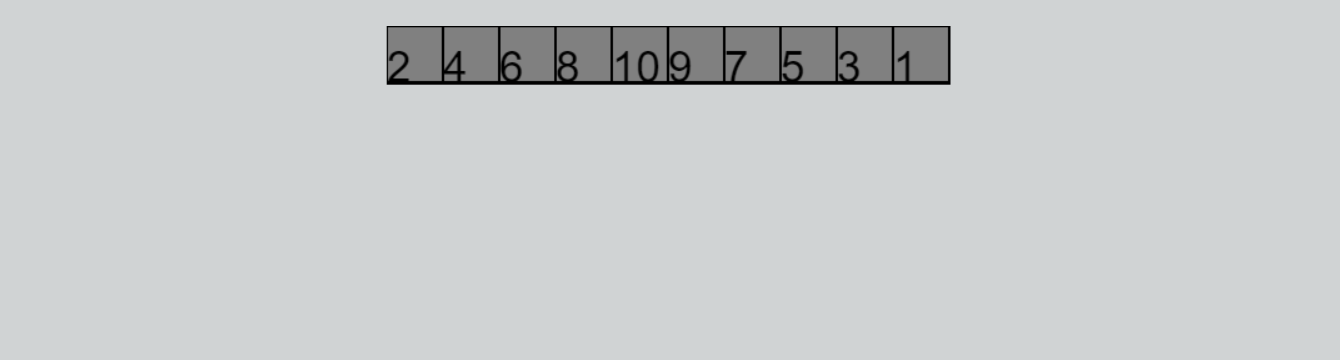
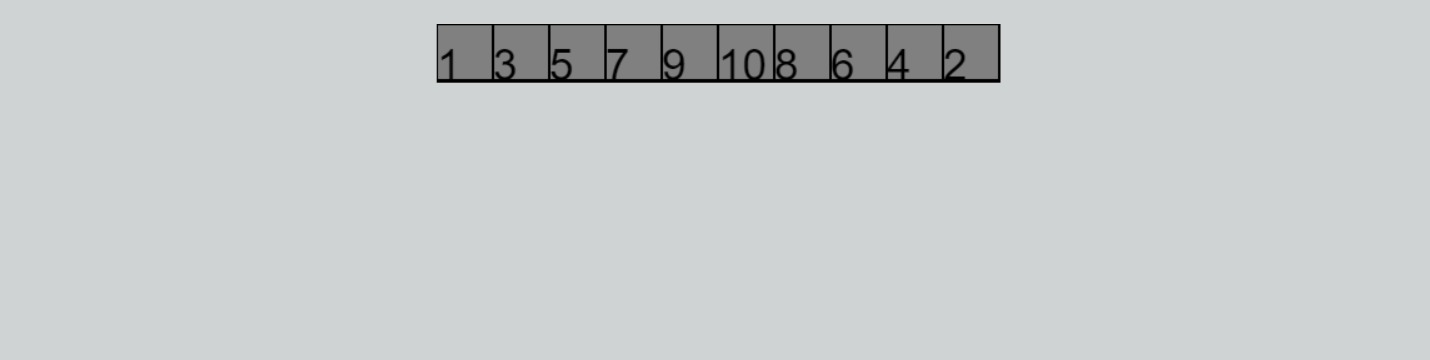
Updated pictures for library and added a description for all library buttons in Sequential WNN

Changed region(s): [[0.2754, 0.0611, 0.7343, 0.2444]]

diff --git a/src/wolframSQ.html b/src/wolframSQ.html
@@ -157,51 +157,56 @@
         <h2> Algorithm Configuration Library </h2>
         <div class="library_box"> 
           <h3> Random </h3>
+          <p> Cells are ordered in a numerically random configuration. </p>
           <div class="center_img">
             <button id="random" class="library_img"> </button>
           </div>
         </div>
         <div class="library_box"> 
           <h3> Left to Right </h3>
+          <p> Cells are ordered in a chronological sequence beginning from the leftmost cell (left/start lattice edge) and progressing towards the rightmost cell (right/end lattice edge). This is the default sequential ordering. </p>
           <div class="center_img">
             <button id="left2right" class="library_img"> </button>
           </div>
         </div>
         <div class="library_box"> 
           <h3> Right to Left </h3>
+          <p> Cells are ordered in a chronological sequence beginning from the rightmost cell (right/end lattice edge) and progressing towards the leftmost cell (left/start lattice edge). </p>
           <div class="center_img">
             <button id="right2left" class="library_img"> </button>
           </div>
         </div>
         <div class="library_box"> 
           <h3> Center Outward </h3>
+          <p> Cells are ordered in a alternating chronological structure beginning at the lattice center and progressing towards the edges. For even lattice sizes, the first cell is the left center cell in the lattice, the second cell is the right center cell, and this alternating sequence continues outward. </p>
           <div class="center_img">
             <button id="centerOutward" class="library_img"> </button>
           </div>
         </div>
         <div class="library_box"> 
           <h3> Edges Inward </h3>
+          <p> Cells are ordered in a alternating chronological structure beginning at the lattice edges and progressing towards the center. The first cell is the leftmost cell in the lattice, the second cell is the rightmost cell, and this alternating sequence continues inward. </p>
           <div class="center_img">
             <button id="edgesInward" class="library_img"> </button>
           </div>
         </div>
         <div class="library_box"> 
           <h3> Center Outward - Reversed </h3>
-          <p> TBD... </p>
+          <p> Cells are ordered in a center outward structure where for even lattice sizes, the first cell is the right center cell, the second cell is the left center cell, and this alternating sequence continues outward. </p>
           <div class="center_img">
             <button id="centerOutwardR" class="library_img"> </button>
           </div>
         </div>
         <div class="library_box"> 
           <h3> Edges Inward - Reversed </h3>
-          <p> TBD... </p>
+          <p> Cells are ordered in a edges inward structure where the first cell is the rightmost cell in the lattice, the second cell is the leftmost cell, and this alternating sequence continues inward. </p>
           <div class="center_img">
             <button id="edgesInwardR" class="library_img"> </button>
           </div>
         </div>
         <div class="library_box"> 
           <h3> N-Skip </h3>
-          <p> TBD... </p>
+          <p> Cells are ordered in a modular pattern based on an interval of N. This creates a weaving sequence, where every Nth cell is chronologically ordered, forming a repeated pattern. Enter an N-value below to set the modularity for the weaving sequence. Invalid inputs will default to N = 2. N is restricted to the following range: 2 <= N <= Lattice Size. </p>
           <div class="center_img">
             <button id="nSkip" class="library_img"> </button>
           </div>

diff --git a/src/js/wolframSQ/UIFunctionality.js b/src/js/wolframSQ/UIFunctionality.js
@@ -331,6 +331,11 @@ edgesIn.addEventListener("click", function() {
 	for (let i = 0; i < mockLattice.length; i++) {
 		mockLattice[i] = (mockLattice.length - 1) - mockLattice[i];
 	}
+	for (let i = 0; i < mockLattice.length / 2; i++) {
+		let temp = mockLattice[i]
+		mockLattice[i] = mockLattice[(mockLattice.length - 1) - i];
+		mockLattice[(mockLattice.length - 1) - i] = temp;
+	}
 	let neoLatticeArray = latticeArray;
 	for (let i = 0 ; i < latticeArray[0].length; i++) {
 		neoLatticeArray[0][i].flipColor();
@@ -342,9 +347,6 @@ edgesIn.addEventListener("click", function() {
 		tempOrder[mockLattice[i]] = i;
 	}
 	libraryWindow.style.display = "none";
-	console.log(tempOrder)
-	makeLog("Edges Inward Order Set", logCanvas, messageQueue)
-
 });
 
 centerOutR.addEventListener("click", function() {
@@ -408,11 +410,6 @@ edgesInR.addEventListener("click", function() {
 	for (let i = 0; i < mockLattice.length; i++) {
 		mockLattice[i] = (mockLattice.length - 1) - mockLattice[i];
 	}
-	for (let i = 0; i < mockLattice.length / 2; i++) {
-		let temp = mockLattice[i]
-		mockLattice[i] = mockLattice[(mockLattice.length - 1) - i];
-		mockLattice[(mockLattice.length - 1) - i] = temp;
-	}
 	let neoLatticeArray = latticeArray;
 	for (let i = 0 ; i < latticeArray[0].length; i++) {
 		neoLatticeArray[0][i].flipColor();
@@ -424,6 +421,9 @@ edgesInR.addEventListener("click", function() {
 		tempOrder[mockLattice[i]] = i;
 	}
 	libraryWindow.style.display = "none";
+	console.log(tempOrder)
+	makeLog("Edges Inward Order Set", logCanvas, messageQueue)
+
 });
 
 skip.addEventListener("click", function() {
